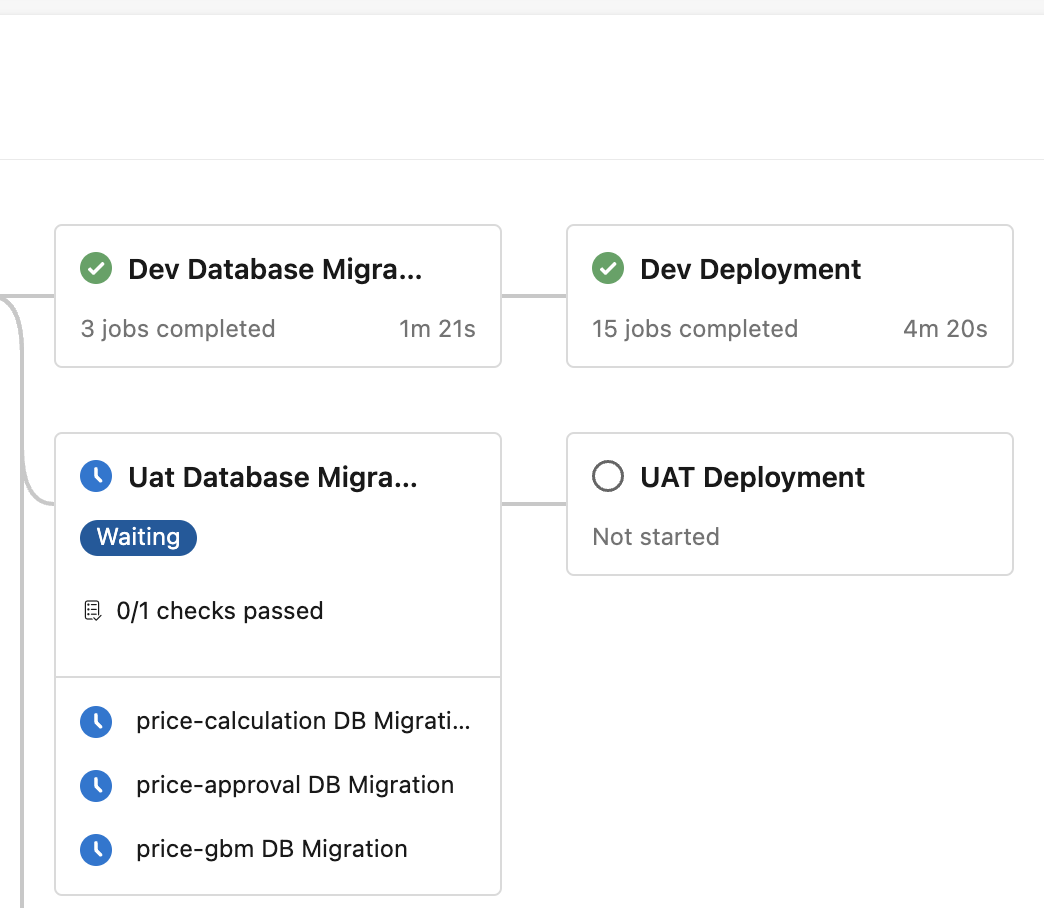
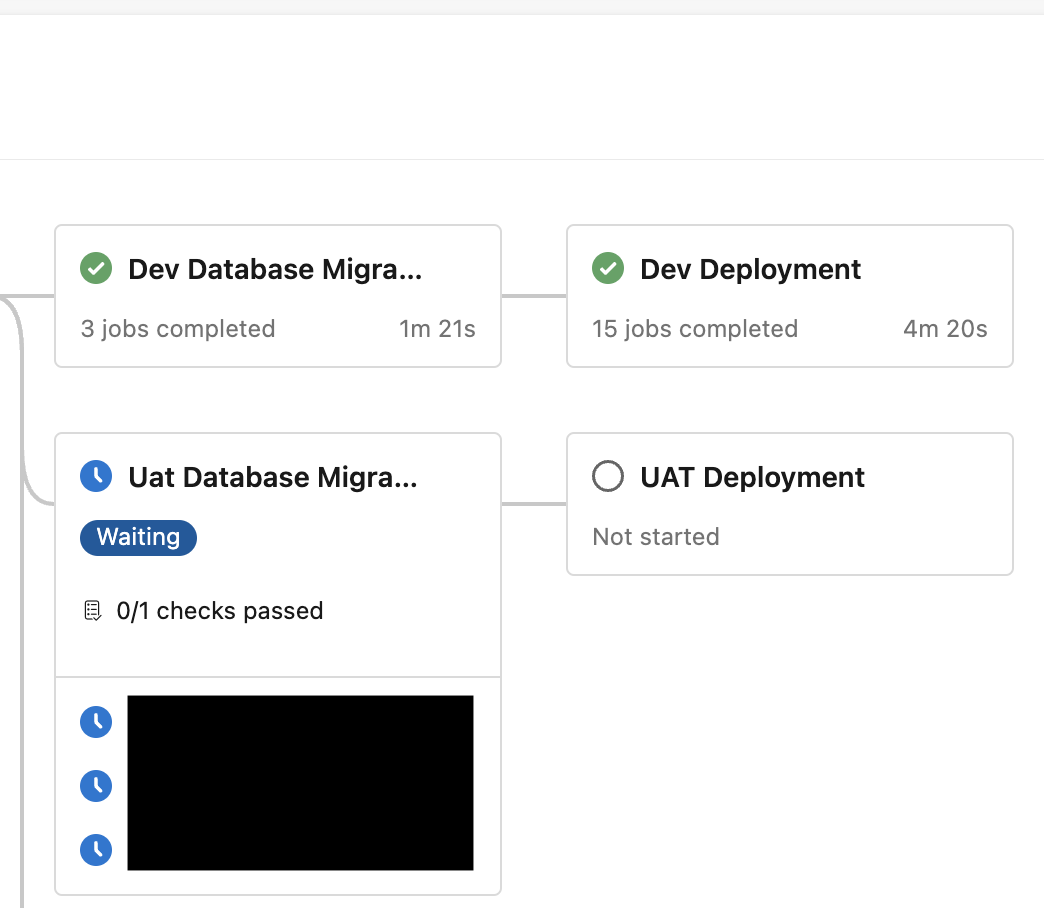
fix: cencor some images

Changed region(s): [[0.1226, 0.7401, 0.4598, 0.9868]]

diff --git a/doc.md b/doc.md
@@ -100,7 +100,7 @@ it is very useful when you want to seperate cd pipeline file from ci.
 
 - Tigger:none is mean disable any trigger from version control
 - pipeline: ci is alias name that can be used to referance in this pipeline file.
-- source: feed-sln-system-ci is name of origin pipeline that can run success.
+- source: funny-sln-system-ci is name of origin pipeline that can run success.
 
 <br>
 <br>
